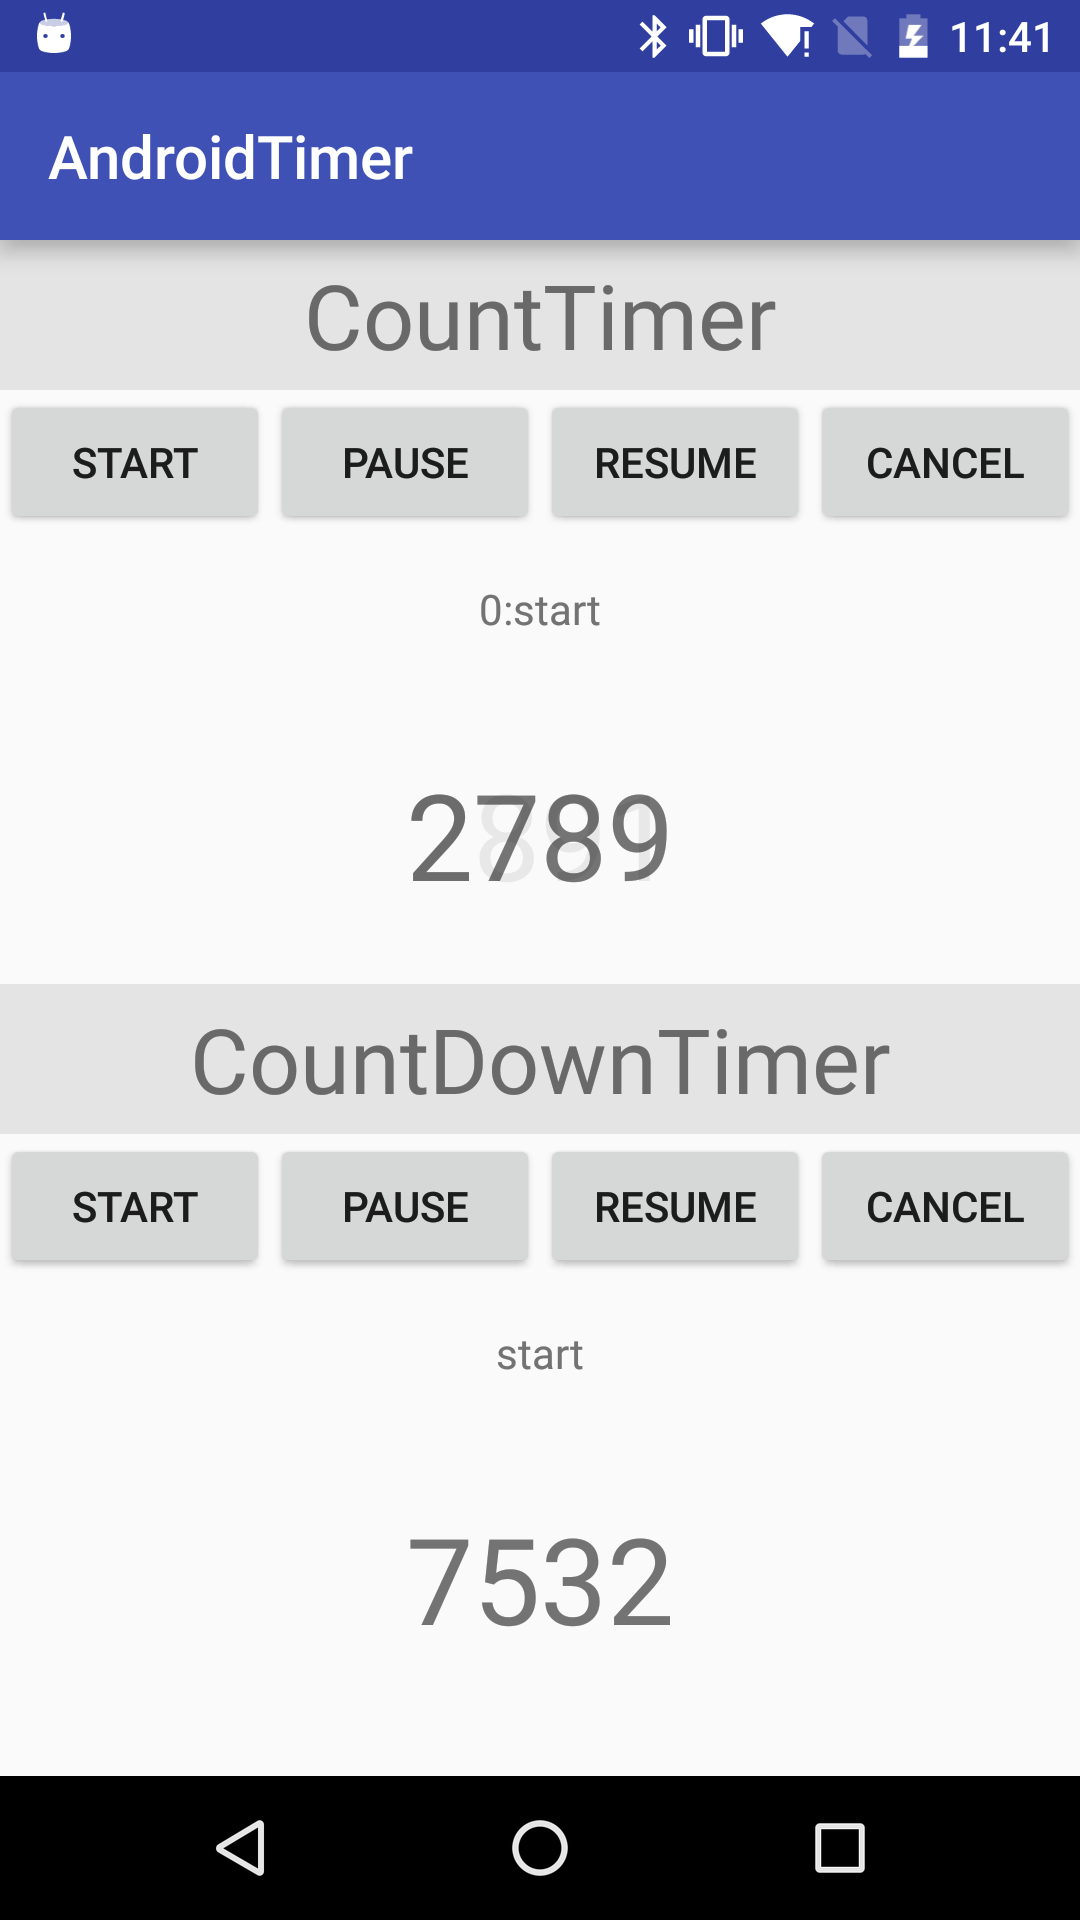
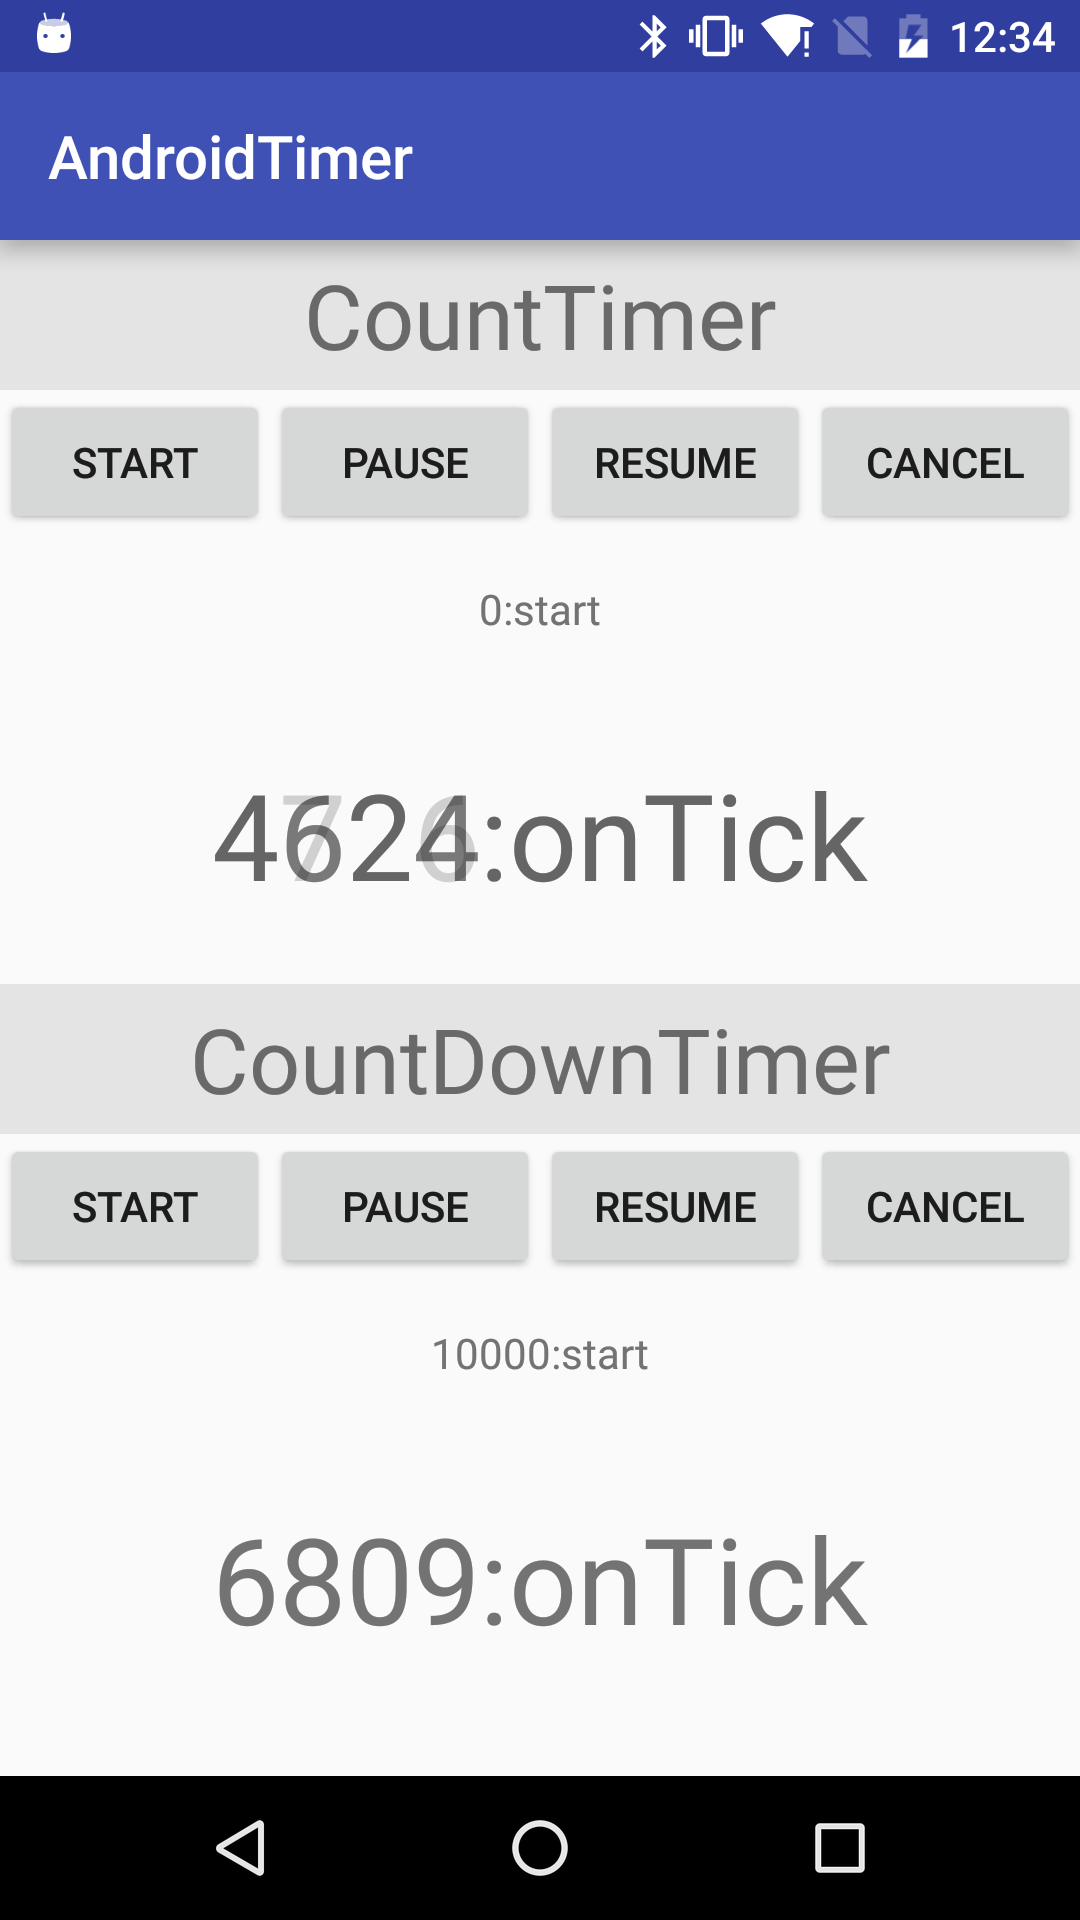
refactor

diff --git a/android-timer/src/main/java/dev/xesam/android/toolbox/timer/CountDownTimer.java b/android-timer/src/main/java/dev/xesam/android/toolbox/timer/CountDownTimer.java
@@ -6,7 +6,7 @@ import android.os.SystemClock;
 
 /**
  * 倒计时器
- * <p/>
+ * <p>
  * xesamguo@gmail.com
  */
 public class CountDownTimer {
@@ -33,13 +33,6 @@ public class CountDownTimer {
     private boolean mCancelled = true;
     private boolean mRunning = false;
 
-    /**
-     * @param millisInFuture    The number of millis in the future from the call
-     *                          to {@link #start()} until the countdown is done and {@link #onFinish()}
-     *                          is called.
-     * @param countDownInterval The interval along the way to receive
-     *                          {@link #onTick(long)} callbacks.
-     */
     public CountDownTimer(long millisInFuture, long countDownInterval) {
         mMillisInFuture = millisInFuture;
         mCountdownInterval = countDownInterval;
@@ -56,6 +49,8 @@ public class CountDownTimer {
         mCancelled = false;
         mRunning = true;
         mTotalPausedFly = 0;
+        onStart(mMillisInFuture);
+
         mMillisStart = SystemClock.elapsedRealtime();
         mStopTimeInFuture = mMillisStart + mMillisInFuture;
         mHandler.sendMessage(mHandler.obtainMessage(MSG));
@@ -78,16 +73,12 @@ public class CountDownTimer {
             return;
         }
         mRunning = true;
+        onResume(mStopTimeInFuture - mMillisPause);
 
         long delay = mCountdownInterval - (mMillisPause - mMillisLastTickStart);
-        while (delay < 0) {
-            delay += mCountdownInterval;
-        }
-        final long tmpStopTimeInFuture = mStopTimeInFuture;
         mTotalPausedFly += SystemClock.elapsedRealtime() - mMillisPause;
         mStopTimeInFuture = mMillisStart + mMillisInFuture + mTotalPausedFly;
         mHandler.sendMessageDelayed(mHandler.obtainMessage(MSG), delay);
-        onResume(tmpStopTimeInFuture - mMillisPause);
     }
 
     /**
@@ -109,17 +100,15 @@ public class CountDownTimer {
         mMillisStart = NOT_START;
     }
 
+    public void onStart(long millisUntilFinished) {
+    }
+
     public void onPause(long millisUntilFinished) {
     }
 
     public void onResume(long millisUntilFinished) {
     }
 
-    /**
-     * Callback fired when the cancel.
-     *
-     * @param millisUntilFinished The amount of time until finished.
-     */
     public void onCancel(long millisUntilFinished) {
     }
 
@@ -143,14 +132,12 @@ public class CountDownTimer {
 
 
     // handles counting down
-    private Handler mHandler = new Handler() {
-
+    private Handler mHandler = new Handler(new Handler.Callback() {
         @Override
-        public void handleMessage(Message msg) {
-
+        public boolean handleMessage(Message msg) {
             synchronized (CountDownTimer.this) {
                 if (mCancelled || !mRunning) {
-                    return;
+                    return true;
                 }
 
                 final long millisLeft = mStopTimeInFuture - SystemClock.elapsedRealtime();
@@ -162,7 +149,7 @@ public class CountDownTimer {
                     onFinish();
                 } else if (millisLeft < mCountdownInterval) {
                     // no tick, just delay until done
-                    sendMessageDelayed(obtainMessage(MSG), millisLeft);
+                    mHandler.sendMessageDelayed(mHandler.obtainMessage(MSG), millisLeft);
                 } else {
                     mMillisLastTickStart = SystemClock.elapsedRealtime();
                     onTick(millisLeft);
@@ -176,10 +163,10 @@ public class CountDownTimer {
                         delay += mCountdownInterval;
                     }
 
-                    sendMessageDelayed(obtainMessage(MSG), delay);
+                    mHandler.sendMessageDelayed(mHandler.obtainMessage(MSG), delay);
                 }
             }
+            return true;
         }
-    };
-
+    });
 }

diff --git a/app/src/main/java/dev/xesam/android/toolbox/timer/demo/CountTimerActivity.java b/app/src/main/java/dev/xesam/android/toolbox/timer/demo/CountTimerActivity.java
@@ -16,7 +16,7 @@ import dev.xesam.android.toolbox.timer.CountTimer;
 
 /**
  * xesamguo@gmail.com
- * */
+ */
 public class CountTimerActivity extends AppCompatActivity {
 
     @InjectView(R.id.count_timer_ts)
@@ -46,6 +46,11 @@ public class CountTimerActivity extends AppCompatActivity {
 
         countTimer = new CountTimer(100) {
             @Override
+            public void onStart(long millisFly) {
+                vCountStatus.setText((millisFly) + ":start");
+            }
+
+            @Override
             public void onCancel(long millisFly) {
                 vCountStatus.setText((millisFly) + ":onCancel");
             }
@@ -62,12 +67,17 @@ public class CountTimerActivity extends AppCompatActivity {
 
             @Override
             public void onTick(long millisFly) {
-                vCountSwitcher.setText((millisFly) + "");
+                vCountSwitcher.setText((millisFly) + ":onTick");
                 Log.d("onTick", millisFly + "");
             }
         };
 
         countDownTimer = new CountDownTimer(10000, 100) {
+            @Override
+            public void onStart(long millisUntilFinished) {
+                vCountDownStatus.setText((millisUntilFinished) + ":start");
+            }
+
             @Override
             public void onCancel(long millisUntilFinished) {
                 vCountDownStatus.setText((millisUntilFinished) + ":onCancel");
@@ -85,7 +95,7 @@ public class CountTimerActivity extends AppCompatActivity {
 
             @Override
             public void onTick(long millisUntilFinished) {
-                vCountDownSwitcher.setText((millisUntilFinished) + "");
+                vCountDownSwitcher.setText((millisUntilFinished) + ":onTick");
                 Log.d("onTick", millisUntilFinished + "");
             }
 
@@ -99,7 +109,6 @@ public class CountTimerActivity extends AppCompatActivity {
     @OnClick(R.id.count_timer_start)
     public void count_start() {
         countTimer.start();
-        vCountStatus.setText("0:start");
     }
 
     @OnClick(R.id.count_timer_pause)
@@ -122,7 +131,6 @@ public class CountTimerActivity extends AppCompatActivity {
     @OnClick(R.id.countdown_timer_start)
     public void countdown_start() {
         countDownTimer.start();
-        vCountDownStatus.setText("start");
     }
 
     @OnClick(R.id.countdown_timer_pause)

diff --git a/android-timer/src/main/java/dev/xesam/android/toolbox/timer/CountTimer.java b/android-timer/src/main/java/dev/xesam/android/toolbox/timer/CountTimer.java
@@ -6,7 +6,7 @@ import android.os.SystemClock;
 
 /**
  * 计时器
- * <p/>
+ * <p>
  * xesamguo@gmail.com
  */
 public class CountTimer {
@@ -38,6 +38,8 @@ public class CountTimer {
         mCancelled = false;
         mRunning = true;
         mTotalPausedFly = 0;
+        onStart(0);
+        
         mMillisStart = SystemClock.elapsedRealtime();
         mHandler.sendMessage(mHandler.obtainMessage(MSG));
         return this;
@@ -52,8 +54,8 @@ public class CountTimer {
         }
         mRunning = false;
 
-        mMillisPause = SystemClock.elapsedRealtime();
         mHandler.removeMessages(MSG);
+        mMillisPause = SystemClock.elapsedRealtime();
         onPause(mMillisPause - mMillisStart - mTotalPausedFly);
     }
 
@@ -66,14 +68,11 @@ public class CountTimer {
         }
         mRunning = true;
 
+        onResume(mMillisPause - mMillisStart - mTotalPausedFly);
+
         long delay = mCountInterval - (mMillisPause - mMillisLastTickStart);
-        while (delay < 0) {
-            delay += mCountInterval;
-        }
-        final long tmpPausedFly = mTotalPausedFly;
         mTotalPausedFly += SystemClock.elapsedRealtime() - mMillisPause;
         mHandler.sendMessageDelayed(mHandler.obtainMessage(MSG), delay);
-        onResume(mMillisPause - mMillisStart - tmpPausedFly);
     }
 
     /**
@@ -96,6 +95,9 @@ public class CountTimer {
         mMillisStart = NOT_START;
     }
 
+    public void onStart(long millisFly) {
+    }
+
     public void onCancel(long millisFly) {
     }
 
@@ -108,7 +110,7 @@ public class CountTimer {
     public void onTick(long millisFly) {
     }
 
-    public boolean isRunning() {
+    public final boolean isRunning() {
         return mRunning;
     }
 

diff --git a/README.md b/README.md
@@ -1,10 +1,10 @@
-#android-timer
+# android-timer
 
 基于Handler的Android定时器与倒计时器
 
 修改自 [CountDownTimer](http://developer.android.com/reference/android/os/CountDownTimer.html)
 
-##特性
+## 特性
 
 支持操作 :
 
@@ -13,9 +13,12 @@
 1. resume
 1. cancel
 
-##使用
+### 注意
+*以上方法是同步方法，请不要在回调方法里面调用以上方法。*
 
-###CountTimer
+## 使用
+
+### CountTimer
 
     new CountTimer(100) {
 
@@ -26,7 +29,7 @@
         }
     };
 
-###CountDownTimer
+### CountDownTimer
 
     new CountDownTimer(100) {
 
@@ -52,6 +55,6 @@
         }
     };
 
-##截图
+## 截图
 
 ![timer](./timer.png)
